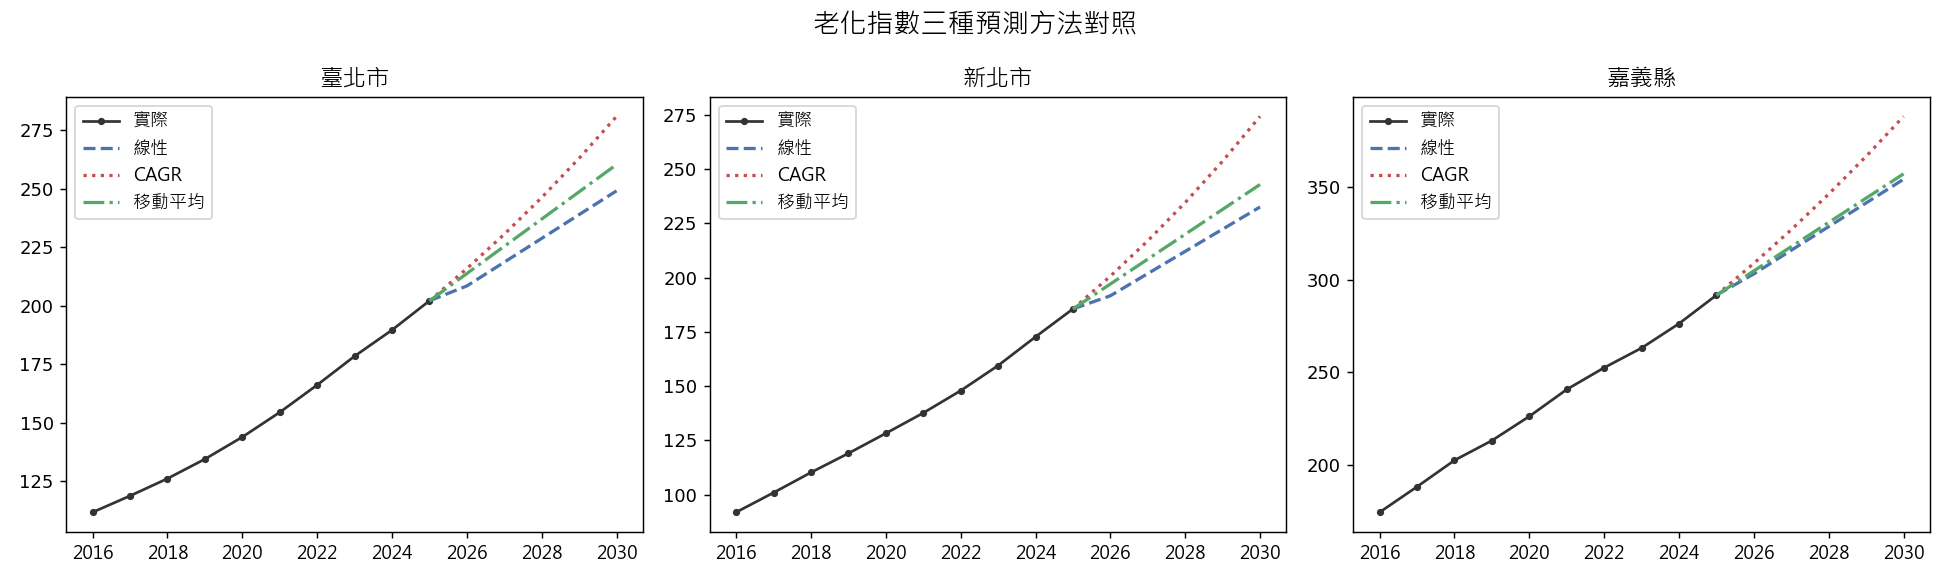
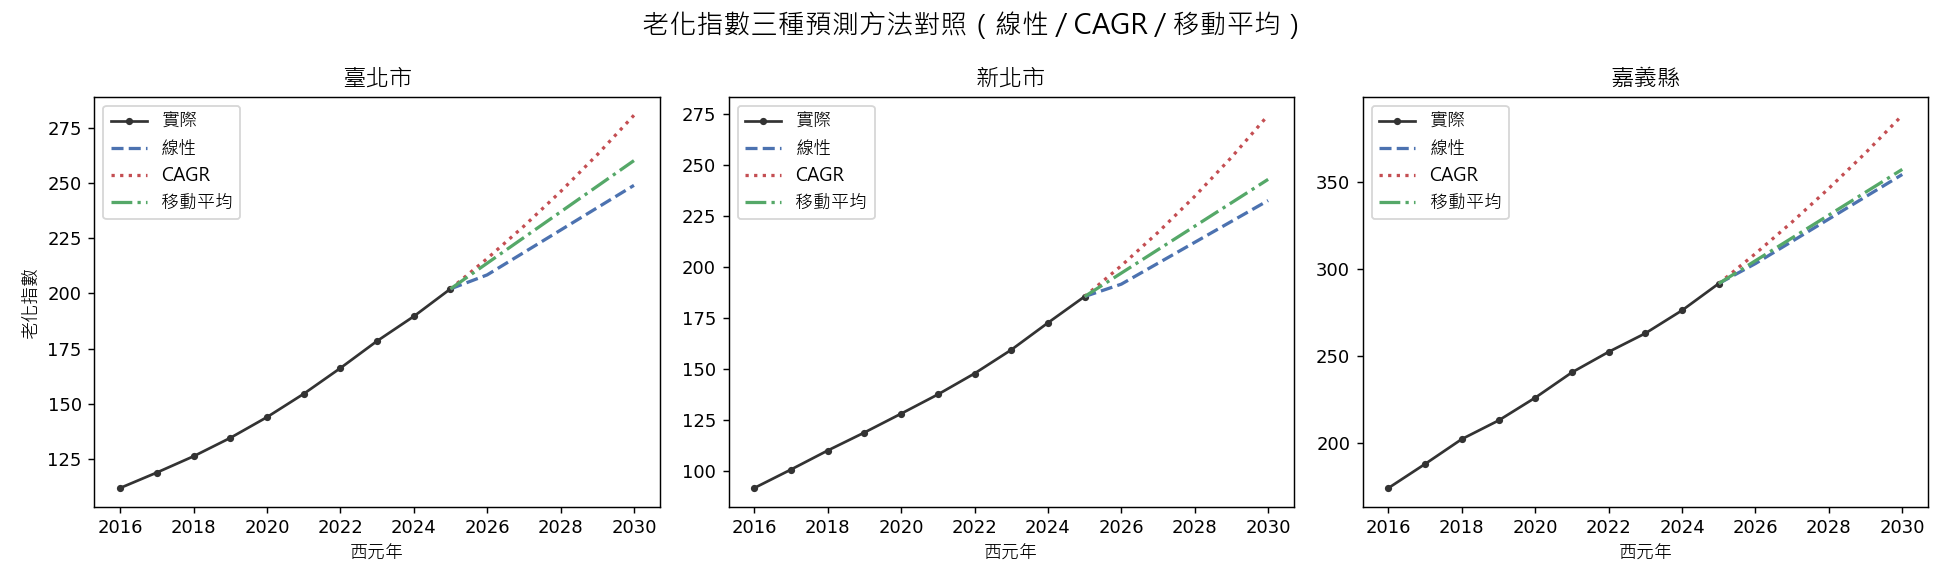
修正非 Windows 環境的字型路徑

diff --git a/scripts/ml_supply_gap.py b/scripts/ml_supply_gap.py
@@ -37,10 +37,10 @@ PROC = os.path.join(BASE, "data", "processed")
 OUT = os.path.join(BASE, "output")
 os.makedirs(OUT, exist_ok=True)
 
-try:
-    FONT = FontProperties(fname=r"C:\Windows\Fonts\msjh.ttc")
-except Exception:
-    FONT = FontProperties()
+# Windows 有微軟正黑體就用它；其他環境（例如 CI 的 Linux）找不到就退回預設字型，
+# 不然 FontProperties 不會在建立時報錯，要等畫圖才爆。
+_font = r"C:\Windows\Fonts\msjh.ttc"
+FONT = FontProperties(fname=_font) if os.path.exists(_font) else FontProperties()
 plt.rcParams["axes.unicode_minus"] = False
 
 COVERAGE_GAP_THRESHOLD = 80      # 涵蓋率低於此值 = 供給不足

diff --git a/scripts/timeseries_compare.py b/scripts/timeseries_compare.py
@@ -28,10 +28,10 @@ PROC = os.path.join(BASE, "data", "processed")
 OUT = os.path.join(BASE, "output")
 os.makedirs(OUT, exist_ok=True)
 
-try:
-    FONT = FontProperties(fname=r"C:\Windows\Fonts\msjh.ttc")
-except Exception:
-    FONT = FontProperties()
+# Windows 有微軟正黑體就用它；其他環境（例如 CI 的 Linux）找不到就退回預設字型，
+# 不然 FontProperties 不會在建立時報錯，要等畫圖才爆。
+_font = r"C:\Windows\Fonts\msjh.ttc"
+FONT = FontProperties(fname=_font) if os.path.exists(_font) else FontProperties()
 plt.rcParams["axes.unicode_minus"] = False
 
 TARGET_YEAR = 2030